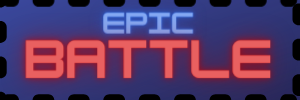
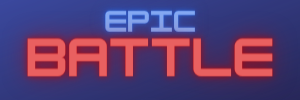
more styling

diff --git a/src/App.css b/src/App.css
@@ -42,6 +42,11 @@ html {
   margin: 10rem;
 }
 
+.App__logo {
+  border: 10px solid #1550FF;
+  box-shadow: 5px 5px 15px 5px #000000;
+}
+
 .App__counter {
   font-size: 2rem;
   background-color: black;
@@ -53,6 +58,7 @@ html {
   font-weight: bold;  
   padding: 1rem;
   border: solid 2px red;
+  box-shadow: 5px 5px 15px 5px #000000;
 }
 
 .App__characters {
@@ -81,6 +87,7 @@ html {
 	padding:7px 20px;
 	text-decoration:none;
 	text-shadow:0px 1px 0px #810e05;
+  box-shadow: 5px 5px 15px 5px #000000;
 }
 
 .App__button--new-game:hover {
@@ -103,13 +110,14 @@ html {
 	border:1px solid #d02718;
 	display:inline-block;
 	cursor:pointer;
-	color:#black;
+	color:black;
 	font-family: 'Display', Arial, sans-serif;
   font-weight: bold;
 	font-size:18px;	
 	padding:7px 20px;
 	text-decoration:none;
 	text-shadow:0px 1px 0px #810e05;
+  box-shadow: 5px 5px 15px 5px #000000;
 }
 
 .App__button--battle:hover {
@@ -132,4 +140,5 @@ html {
   color: yellow;
   padding: 1rem;
   border: solid 2px red;
+  box-shadow: 5px 5px 15px 5px #000000;
 }

diff --git a/src/Card.css b/src/Card.css
@@ -1,8 +1,9 @@
 .Character {
     background-color: rgb(255, 240, 191);
-    border: 2px solid black;
+    border: 3px solid black;
     border-radius: 10px;
     margin: 2rem;
+    box-shadow: 5px 5px 15px 5px #000000;
 }
 
 .bgr--black {
@@ -16,20 +17,19 @@
     margin: 2rem;
 }
 
-
-
-.Character__name {
+.Character__name {    
     font-size: 2rem;
     font-weight: bold;
     margin-top: 1rem;
     padding: 0rem 0rem 1rem 0rem;
-    border-bottom: 1px solid #000;
+    border-bottom: 2px solid #000;
 }
 
 .Character__attr {
     font-size: 1.5rem;
+    font-weight: bold;
     margin: 0.5rem;
-    border: 1px solid black; 
+    border: 2px solid black; 
 }
 
 .Character__attr--active {

diff --git a/src/App.js b/src/App.js
@@ -5,6 +5,10 @@ import Card from './Card'
 import background from "./Pictures/4a6b5214f65c4848fd59c57caefc6cc0.gif";
 import logo from "./Pictures/Battle.png"
 
+<style>
+@import url(');
+</style>
+
 function App() {
   const [characters, setCharacters] = useState([]);
   // const [isLoading, setIsLoading] = useState(true)
@@ -98,7 +102,7 @@ function App() {
  return (
    <div className='App'>
      <div className='App__wrapper'>   
-   <img src={logo} />
+   <img className='App__logo' src={logo} />
    <div className="App__display">{display}</div>
    {/* {characters.map((character, index) =>  <Character character={character} key={index}/>)} */}
    <div className="App__characters">
